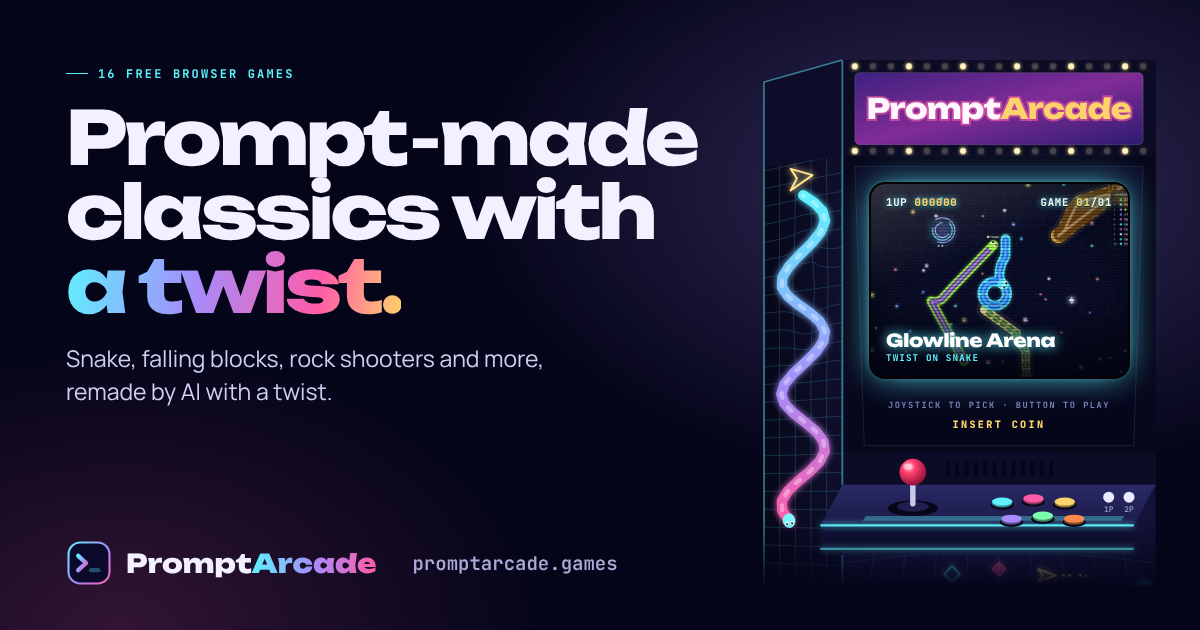
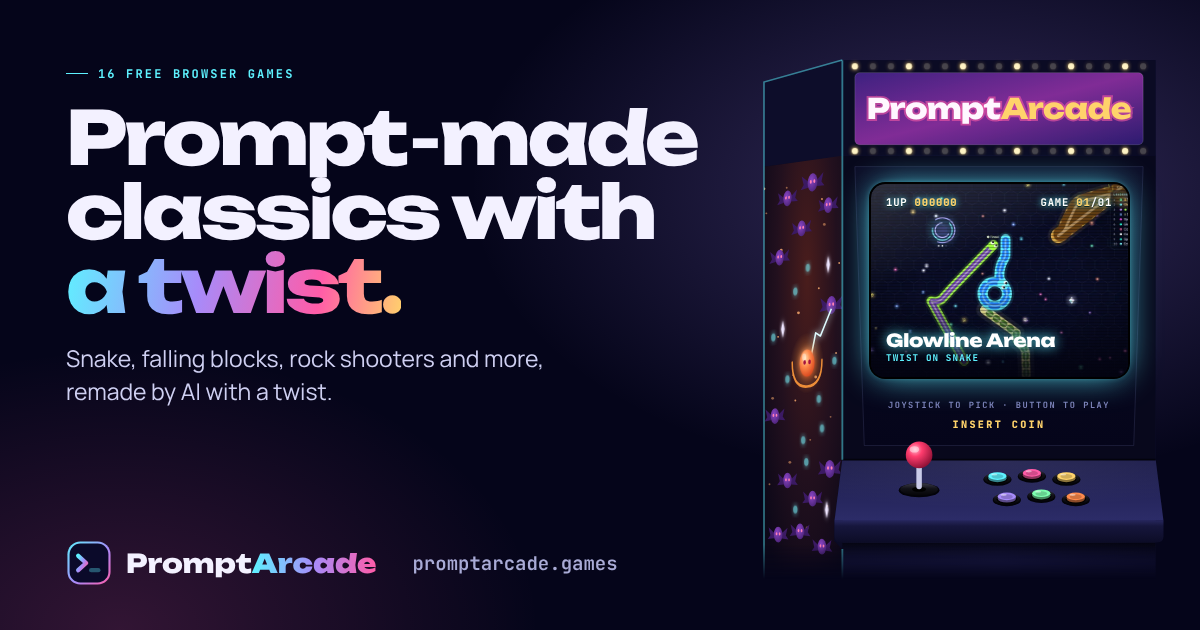
Cabinet: rebuild the control panel and put Ember Swarm art on the side
The deck now spans the body evenly with a rounded front lip, the six buttons sit in black
rings set back from the edge, and the 1P/2P buttons, accent strip and glow lines are gone.
The side panel shows Ember Swarm: the spirit in its ward, chain lightning, bats and embers.

Claude-Session: https://claude.ai/code/session_01ULzD1Fq67nhdKZeWie6Mtf

Changed region(s): [[0.6167, 0.2413, 0.9867, 0.9349]]

diff --git a/src/assets/site.css b/src/assets/site.css
@@ -134,7 +134,7 @@ button{font:inherit;color:inherit}
 /* ---------- arcade cabinet (home hero) ---------- */
 .cab-stage{position:relative;display:flex;justify-content:center;perspective:1600px}
 .cab-stage::before{content:"";position:absolute;left:50%;top:44%;width:80%;height:70%;transform:translate(-45%,-50%);border-radius:50%;background:radial-gradient(closest-side,color-mix(in srgb,var(--glow,#a78bfa) 30%,transparent),transparent);filter:blur(30px);pointer-events:none;z-index:-1}
-.cab{--a:var(--cyan);--b:var(--violet);position:relative;width:min(570px,100%,calc((100svh - 140px) * 600 / 690));aspect-ratio:600/690;-webkit-mask-image:linear-gradient(#000 88%,transparent);mask-image:linear-gradient(#000 88%,transparent);transform:rotateY(4deg);transform-style:preserve-3d;animation:cab-in 1.1s var(--ease) both}
+.cab{--a:var(--cyan);--b:var(--violet);position:relative;width:min(570px,100%,calc((100svh - 140px) * 600 / 680));aspect-ratio:600/680;-webkit-mask-image:linear-gradient(#000 93.5%,transparent);mask-image:linear-gradient(#000 93.5%,transparent);transform:rotateY(4deg);transform-style:preserve-3d;animation:cab-in 1.1s var(--ease) both}
 @keyframes cab-in{from{opacity:0;transform:translateY(30px) rotateY(14deg) scale(.96)}}
 .cab-svg{position:absolute;inset:0;width:100%;height:100%}
 .cab-svg .acc-fill{fill:var(--a);transition:fill .6s}
@@ -144,19 +144,14 @@ button{font:inherit;color:inherit}
 .cab-svg .mq-panel{filter:brightness(1.05)}
 .cab-svg .mq-title{font:800 36px var(--display);letter-spacing:-.5px;fill:#fff7ff;paint-order:stroke;stroke:rgba(255,92,168,.55);stroke-width:5px}
 .cab-svg .mq-arc{fill:var(--gold)}
-.cab-svg .art-grid{stroke:var(--a);opacity:.22;transition:stroke .6s}
-.cab-svg .snake-stripes{animation:snake-run 1.6s linear infinite}
-@keyframes snake-run{to{stroke-dashoffset:-40}}
+.cab-svg .ember{animation:ember 2.2s ease-in-out infinite}
+@keyframes ember{50%{opacity:.45}}
 .cab-svg .bz-text{font:700 11px var(--mono);letter-spacing:2px;fill:#7d80b8}
 .cab-svg .bz-coin{font:800 13px var(--mono);letter-spacing:3px;fill:var(--gold);animation:blink 1.2s steps(2) infinite}
-.cab-svg .coin-slot{fill:#ff5a3c;filter:drop-shadow(0 0 4px #ff5a3c);animation:coin 2.4s ease-in-out infinite}
-.cab-svg .coin-slot+.coin-slot{animation-delay:-1.2s}
-@keyframes coin{50%{opacity:.35}}
-.cab-svg .coin-label,.cab-svg .st-label{font:700 10px var(--mono);fill:#8e90c4}
 .cab-svg .bulb{fill:#fff3c4;filter:drop-shadow(0 0 3px #ffd36b);animation:bulb 1.2s steps(1) infinite}
 .cab-svg .bulb.b1{animation-delay:-.4s}.cab-svg .bulb.b2{animation-delay:-.8s}
 @keyframes bulb{0%{opacity:1}33%{opacity:.25}}
-.cab-svg .stick{transform-box:view-box;transform-origin:250px 588px;transition:transform .26s cubic-bezier(.3,1.6,.5,1)}
+.cab-svg .stick{transform-box:view-box;transform-origin:258px 566px;transition:transform .26s cubic-bezier(.3,1.6,.5,1)}
 .cab[data-stick="l"] .stick{transform:rotate(-24deg)}
 .cab[data-stick="r"] .stick{transform:rotate(24deg)}
 .cab[data-stick="u"] .stick{transform:translateY(-3px) scaleY(1.04)}
@@ -167,7 +162,8 @@ button{font:inherit;color:inherit}
 .cab-svg .c1{color:#5ef2ff}.cab-svg .c2{color:#ff5ca8}.cab-svg .c3{color:#ffd36b}.cab-svg .c4{color:#a78bfa}.cab-svg .c5{color:#7dffb0}.cab-svg .c6{color:#ff8a4c}
 .cab-svg .cap-top{fill:currentColor}
 .cab-svg .cap-side{fill:currentColor;filter:brightness(.55)}
-.cab-screen{position:absolute;left:32.667%;top:25.507%;width:54.667%;height:35.652%;container-type:size;border-radius:5.5%/7.3%;overflow:hidden;background:#02020c;box-shadow:0 0 0 2px #000,0 0 34px -4px var(--a),inset 0 0 30px rgba(0,0,0,.9);transition:box-shadow .6s;isolation:isolate}
+.cab-svg .cap-dish{fill:currentColor;filter:brightness(.82)}
+.cab-screen{position:absolute;left:32.667%;top:25.882%;width:54.667%;height:36.176%;container-type:size;border-radius:5.5%/7.3%;overflow:hidden;background:#02020c;box-shadow:0 0 0 2px #000,0 0 34px -4px var(--a),inset 0 0 30px rgba(0,0,0,.9);transition:box-shadow .6s;isolation:isolate}
 .cab-slide{position:absolute;inset:0;opacity:0;visibility:hidden}
 .cab-slide.on{opacity:1;visibility:visible}
 .cab-slide img{width:100%;height:100%;object-fit:cover;transform-origin:50% 40%}
@@ -186,11 +182,11 @@ button{font:inherit;color:inherit}
 .cab-osd span{font:700 3.6cqw/1.2 var(--mono);letter-spacing:.12em;text-transform:uppercase;color:var(--a)}
 .cab-hit{position:absolute;z-index:6;background:transparent;border:0;padding:0;cursor:pointer;border-radius:12px}
 .cab-hit:focus-visible{outline:2px solid var(--a);outline-offset:2px}
-.cab-left{left:31%;top:75.36%;width:8.5%;height:13.04%}
-.cab-right{left:39.5%;top:75.36%;width:8.5%;height:13.04%}
-.cab-play{left:57%;top:81.16%;width:22%;height:8.41%}
+.cab-left{left:37%;top:73.5%;width:6%;height:14.7%}
+.cab-right{left:43%;top:73.5%;width:6%;height:14.7%}
+.cab-play{left:56%;top:78.7%;width:24%;height:8.8%}
 .cab-screen a{cursor:pointer}
-@media (prefers-reduced-motion:reduce){.cab,.cab-slide.on img,.cab-svg .snake-stripes,.cab-svg .bulb,.cab-svg .bz-coin,.cab-svg .coin-slot{animation:none}}
+@media (prefers-reduced-motion:reduce){.cab,.cab-slide.on img,.cab-svg .ember,.cab-svg .bulb,.cab-svg .bz-coin{animation:none}}
 
 /* ---------- classic / original labels ---------- */
 .card-kind{font:700 11px/1.2 var(--mono);letter-spacing:.14em;text-transform:uppercase;color:var(--a)}
